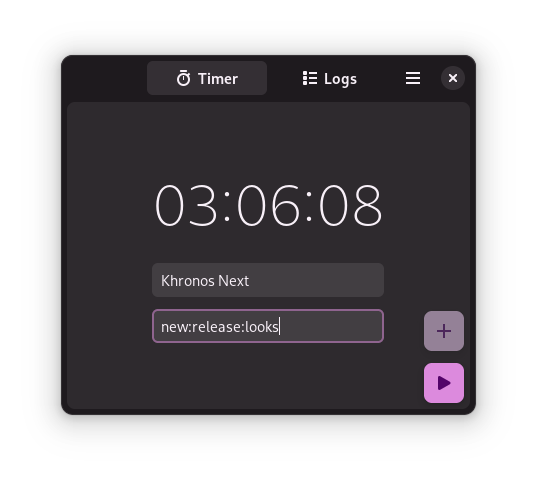
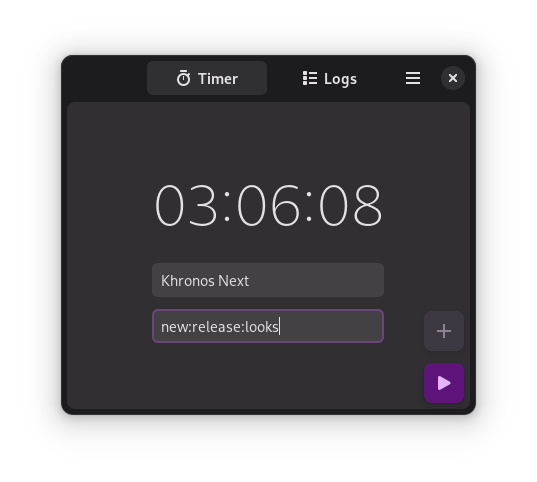
3.6.8

Changed region(s): [[0.2682, 0.6224, 0.7151, 0.7158], [0.7747, 0.6224, 0.8641, 0.8402]]

diff --git a/data/style-dark.css b/data/style-dark.css
@@ -1,28 +1,21 @@
-@define-color accent_color @purple_1;
-@define-color accent_bg_color @purple_1;
-@define-color accent_fg_color #530469;
-@define-color accent_secondary_bg_color #fad8ff;
-@define-color accent_secondary_fg_color #6b2589;
-@define-color window_bg_color #1e1a1e;
-@define-color view_bg_color #2e2a2e;
-@define-color headerbar_bg_color #1e1a1e;
-@define-color popover_bg_color #2e2a2e;
-@define-color popover_fg_color #f8f0f8;
-@define-color window_fg_color #f8f0f8;
-@define-color view_fg_color #f8f0f8;
-@define-color headerbar_fg_color #f8f0f8;
+@define-color accent_color #904db2;
+@define-color accent_bg_color #5E147B;
+@define-color accent_fg_color #E4B5FF;
+@define-color accent_secondary_bg_color #4c4053;
+@define-color accent_secondary_fg_color #EADAF4;
+@define-color window_bg_color #1c1b1d;
+@define-color view_bg_color #312f32;
+@define-color headerbar_bg_color #1c1b1d;
+@define-color popover_bg_color #312f32;
+@define-color popover_fg_color #E4E1E5;
+@define-color window_fg_color #E4E1E5;
+@define-color view_fg_color #E4E1E5;
+@define-color headerbar_fg_color #E4E1E5;
 
 .list-action-button.destructive-action {
-  background: #ffb4a9;
-  color: #930006;
+  background: #524247;
+  color: #F2DCE3;
 }
 .list-action-button.destructive-action:active {
-  background: shade(#ffb4a9, 0.9);
-}
-
-.content-sidebar row {
-  background: mix(@view_bg_color,#fff,0.05);
-}
-.kh-tag {
-  background: mix(@view_bg_color,#fff,0.12);
+  background: shade(#524247, 0.9);
 }

diff --git a/data/style.css b/data/style.css
@@ -1,8 +1,8 @@
-@define-color accent_color #813d9c;
-@define-color accent_bg_color #623077;
-@define-color accent_fg_color #fefafe;
-@define-color accent_secondary_bg_color #f2dcf4;
-@define-color accent_secondary_fg_color #241728;
+@define-color accent_color #904db2;
+@define-color accent_bg_color #E4B5FF;
+@define-color accent_fg_color #3c0050;
+@define-color accent_secondary_bg_color #EADAF4;
+@define-color accent_secondary_fg_color #211527;
 @define-color window_bg_color #f2eff3;
 @define-color view_bg_color #fefbff;
 @define-color headerbar_bg_color #f2eff3;
@@ -62,14 +62,14 @@ headerbar {
   background: shade(@accent_secondary_bg_color, 0.95);
 }
 .list-action-button.destructive-action {
-  background: #6a595f;
-  color: #ffffff;
+  background: #F2DCE3;
+  color: #26161C;
 }
 .list-action-button.destructive-action:hover {
-  background: shade(#6a595f, 1.02);
+  background: shade(#F2DCE3, 1.02);
 }
 .list-action-button.destructive-action:active {
-  background: shade(#6a595f, 0.95);
+  background: shade(#F2DCE3, 0.95);
 }
 
 .content-sidebar {
@@ -78,7 +78,7 @@ headerbar {
 }
 
 .content-sidebar row {
-  background: mix(@view_bg_color,#151515,0.05);
+  background: mix(@view_bg_color,@view_fg_color,0.05);
   border-radius: 8px;
   margin: 6px;
   margin-top: 3px;
@@ -92,7 +92,7 @@ headerbar {
   margin: 0;
 }
 .kh-tag {
-  background: mix(@view_bg_color,#151515,0.12);
+  background: mix(@view_bg_color,@view_fg_color,0.12);
   border-radius: 8px;
   padding: 8px;
 }
